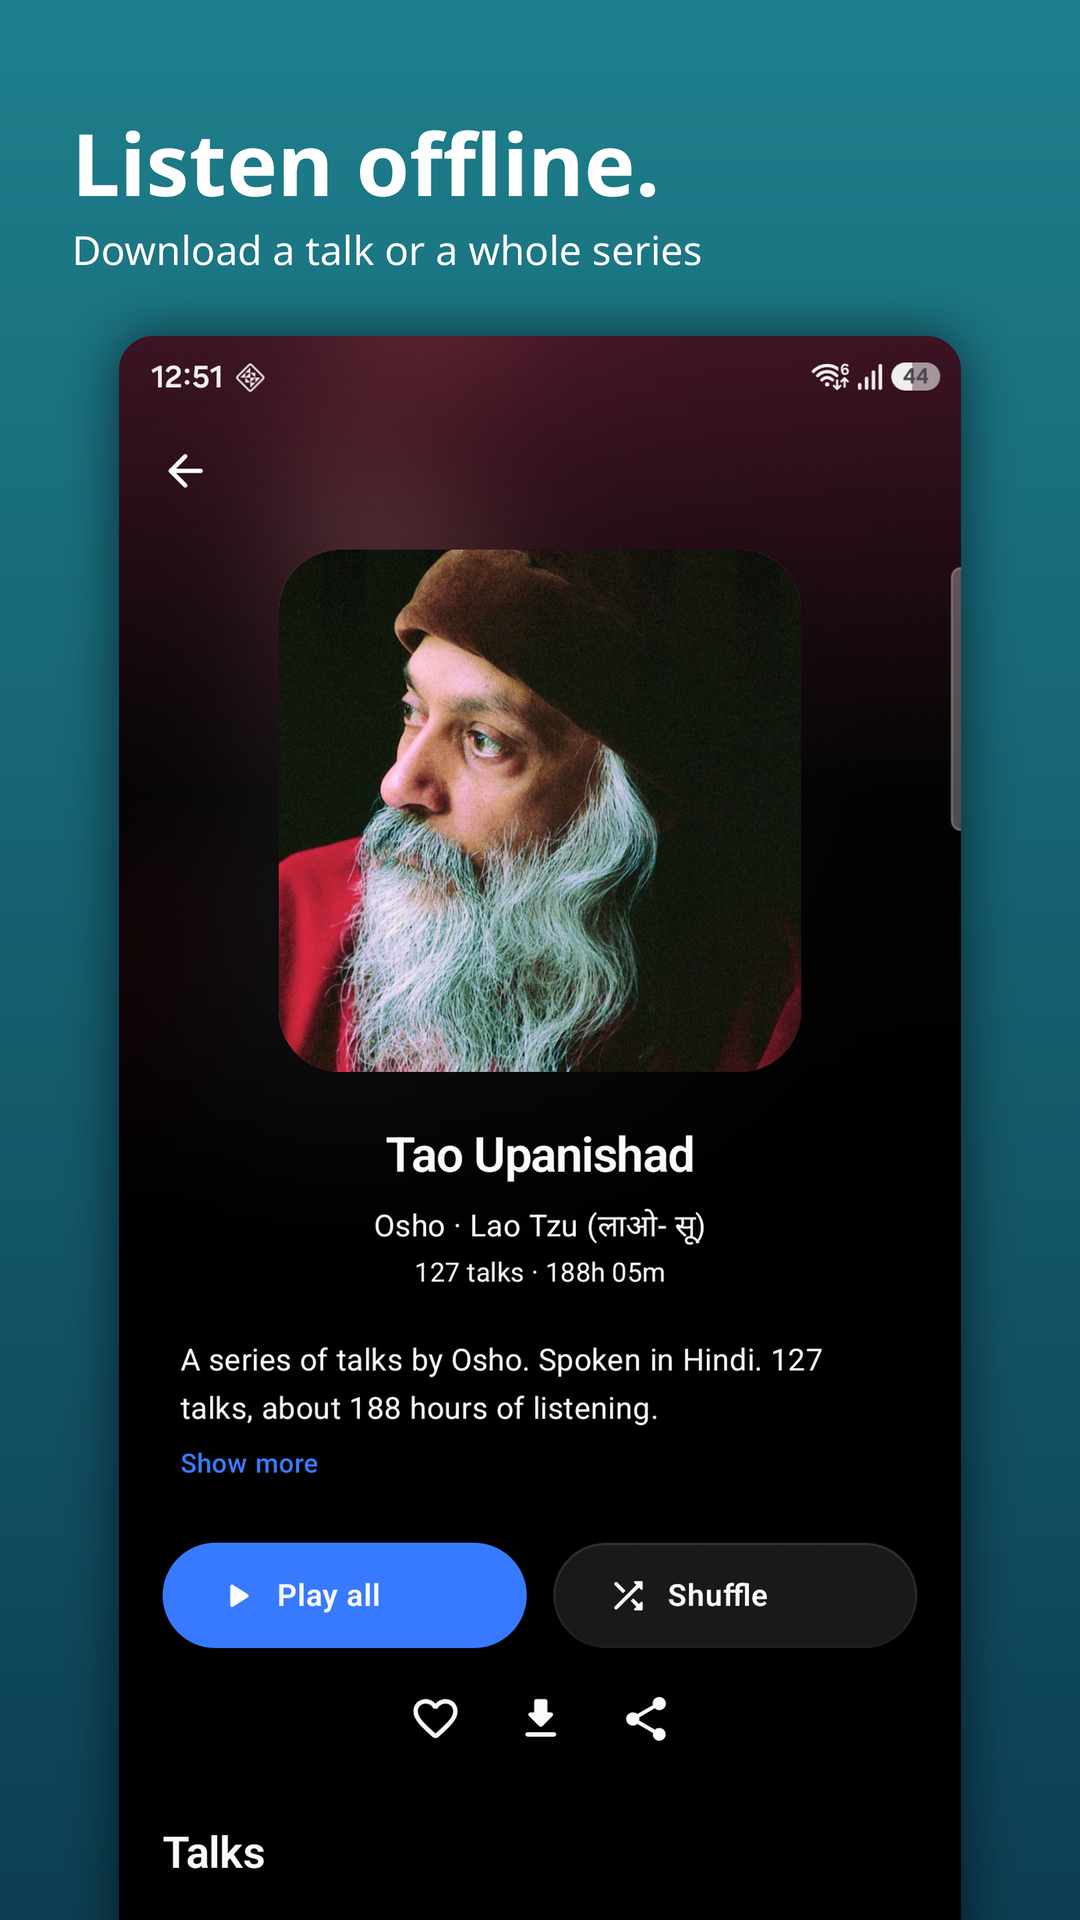
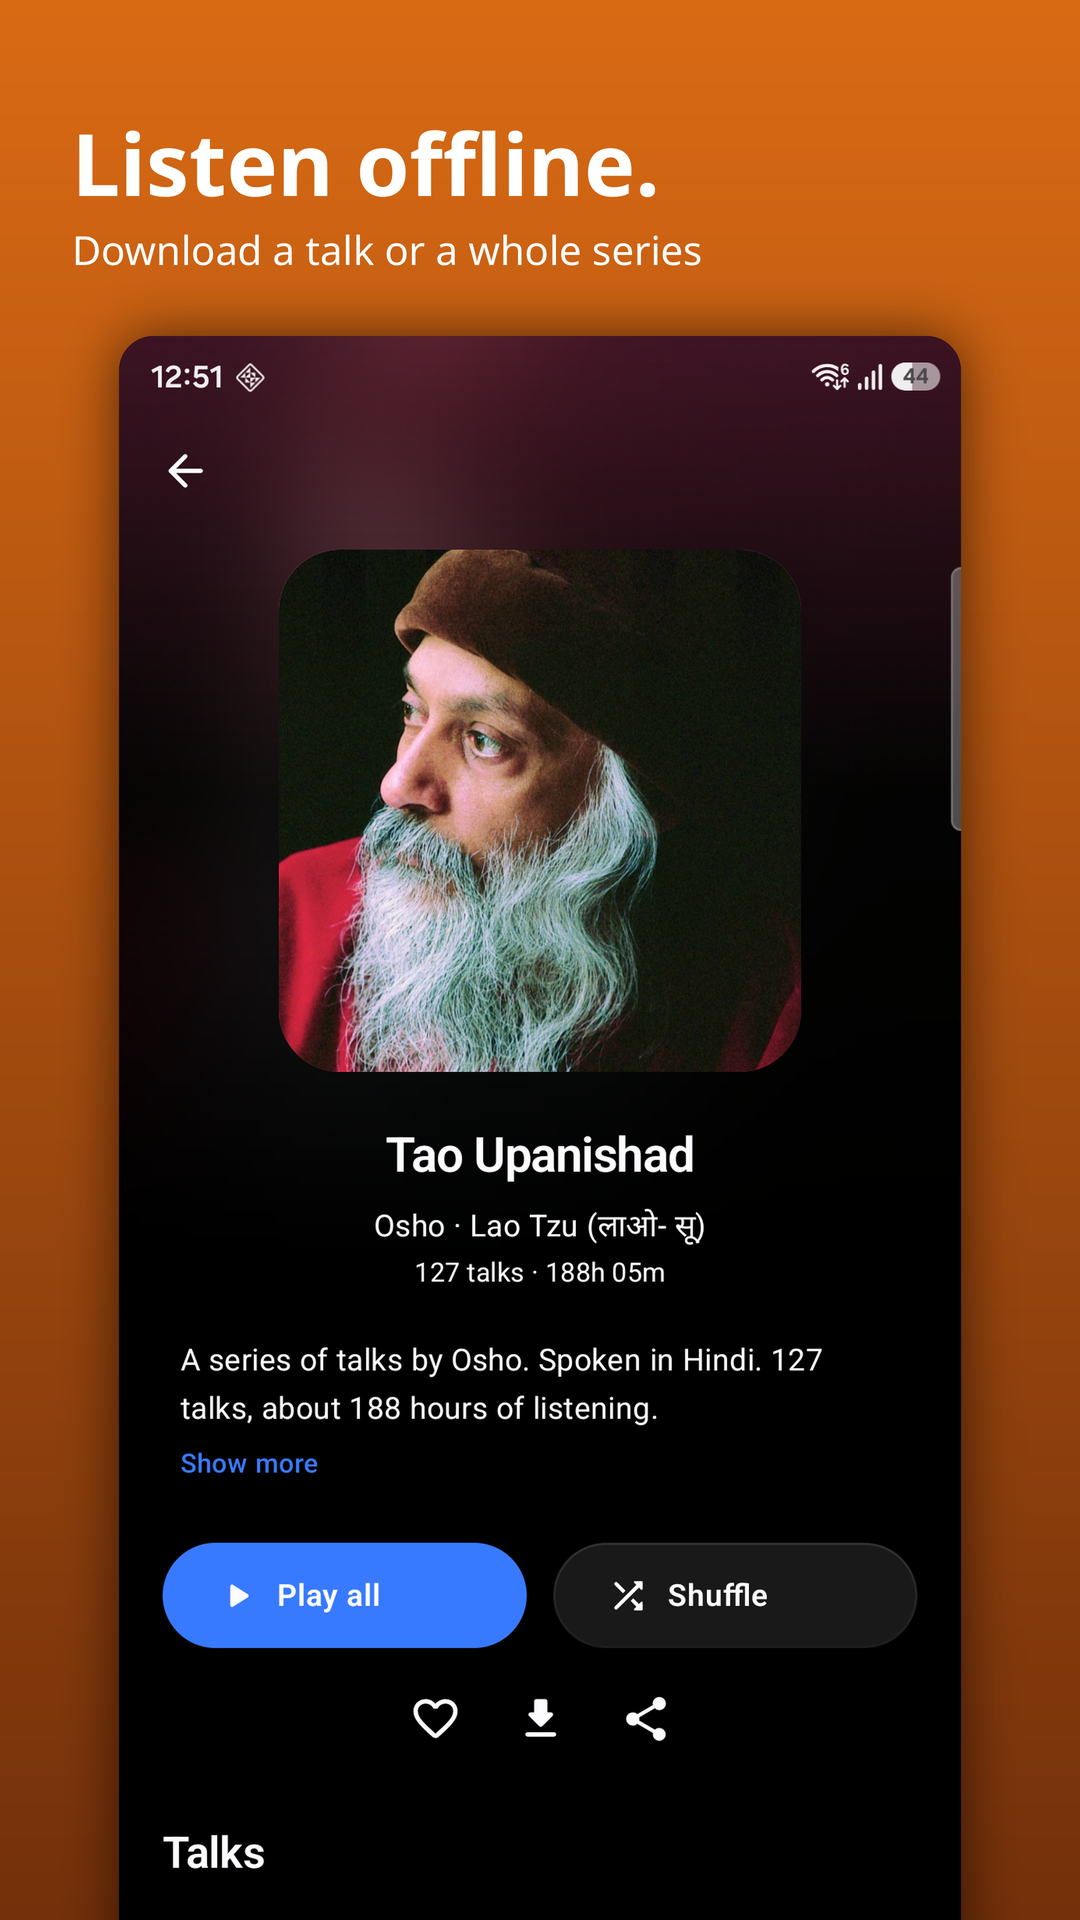
Recolour the feature graphic and store panels to saffron
The launcher artwork is saffron now, so the violet banner and panels no
longer matched the icon beside them on the listing.

The banner previously parsed its gradient out of ic_launcher_background.xml
to stay in step with the icon. That vector no longer describes the icon, so
the banner carries its own stops instead of tracking a drawable the app has
stopped using.

Also removes render_icon.py: render_launcher_icon.py supersedes it, and
running the old script would have rebuilt the store icon from the retired
enso vectors, silently reverting the new one.

diff --git a/branding/render_store_panels.py b/branding/render_store_panels.py
@@ -27,14 +27,15 @@ BOLD = "/home/warlord/.local/share/fonts/NotoSans-Bold.ttf"
 REG = "/home/warlord/.local/share/fonts/NotoSans-Regular.ttf"
 
 # Headline, supporting line, source capture, and the two gradient stops.
-# Colours stay in the app's violet family and step around it, so the five
-# cards read as one set rather than five unrelated adverts.
+# Colours are a graded saffron family matching the launcher artwork, running
+# gold -> orange -> terracotta -> rust, so the five cards read as one set
+# while still being told apart in the store's filmstrip.
 PANELS = [
-    ("351 series.",      "Osho's discourses, in Hindi and English",  "01-home.png",   "#6D4DF6", "#3B1E9E"),
-    ("Listen offline.",  "Download a talk or a whole series",        "02-series.png", "#1E7F8C", "#0C3E52"),
-    ("Sleep timer.",     "Stops at the end of the talk",             "03-player.png", "#B24C7A", "#5E1F46"),
-    ("Browse by theme.", "Zen, Buddha, Sufism, Tao and 50 more",     "04-browse.png", "#C2762B", "#6A3412"),
-    ("No ads. No account.", "Nothing about you is collected",        "05-settings.png", "#4B3BA8", "#1C1340"),
+    ("351 series.",         "Osho's discourses, in Hindi and English", "01-home.png",     "#E8920E", "#8A4A02"),
+    ("Listen offline.",     "Download a talk or a whole series",       "02-series.png",   "#D96A14", "#73300A"),
+    ("Sleep timer.",        "Stops at the end of the talk",            "03-player.png",   "#C44A22", "#5E1C0E"),
+    ("Browse by theme.",    "Zen, Buddha, Sufism, Tao and 50 more",    "04-browse.png",   "#B8701A", "#5C3208"),
+    ("No ads. No account.", "Nothing about you is collected",          "05-settings.png", "#9E4418", "#47180A"),
 ]
 
 

diff --git a/branding/render_feature_graphic.py b/branding/render_feature_graphic.py
@@ -26,12 +26,13 @@ W, H, S = 1024, 500, 3
 FONT_BOLD = "/home/warlord/.local/share/fonts/NotoSans-Bold.ttf"
 FONT_REG = "/home/warlord/.local/share/fonts/NotoSans-Regular.ttf"
 
-# --- brand colours, read from the shipped launcher background -----------------
-bg_vector = (ROOT / "app/src/main/res/drawable/ic_launcher_background.xml").read_text()
-stops = re.findall(r'android:offset="([\d.]+)"\s+android:color="#FF([0-9A-Fa-f]{6})"', bg_vector)
-if not stops:
-    raise SystemExit("could not read the launcher gradient")
-stops = [(float(o), tuple(int(c[i:i + 2], 16) for i in (0, 2, 4))) for o, c in stops]
+# --- brand colours -----------------------------------------------------------
+# Saffron, matching the launcher artwork. These were previously parsed out of
+# ic_launcher_background.xml, but that vector no longer describes the icon —
+# the launcher is illustrated artwork now — so the banner carries its own
+# stops rather than tracking a drawable the app has stopped using.
+STOPS_HEX = [(0.0, "E8920E"), (0.55, "B35A08"), (1.0, "7A3703")]
+stops = [(o, tuple(int(c[i:i + 2], 16) for i in (0, 2, 4))) for o, c in STOPS_HEX]
 
 # --- catalog figures, counted rather than remembered --------------------------
 catalog = json.loads((ROOT / "app/src/main/assets/discourses.json").read_text())
